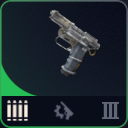
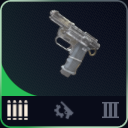
resize fix

diff --git a/overlay_loadouts.py b/overlay_loadouts.py
@@ -149,20 +149,16 @@ class OverlayLoadoutsMixin:
         self._resize_for_loadout_count()
 
     def _resize_for_loadout_count(self):
-        visible_widths = [
-            self._loadout_card_width(name)
-            for name in list(reversed(list(self.loadouts)))[:LOADOUTS_MAX_VISIBLE_CARDS]
-        ]
+        # Sized from collapsed cards only, so expanding a card scrolls instead of
+        # growing the window.
+        visible_count = min(len(self.loadouts), LOADOUTS_MAX_VISIBLE_CARDS)
 
-        if not visible_widths:
+        if visible_count == 0:
             panel_width = LOADOUTS_EMPTY_PANEL_WIDTH
         else:
             panel_width = (
-                sum(visible_widths) + (len(visible_widths) - 1) * LOADOUT_CARD_GAP
-            )
-            panel_width = max(
-                panel_width,
-                max(self._loadout_card_width(name) for name in self.loadouts),
+                visible_count * LOADOUT_CARD_WIDTH
+                + (visible_count - 1) * LOADOUT_CARD_GAP
             )
 
         self.loadouts_panel.setFixedWidth(panel_width)
